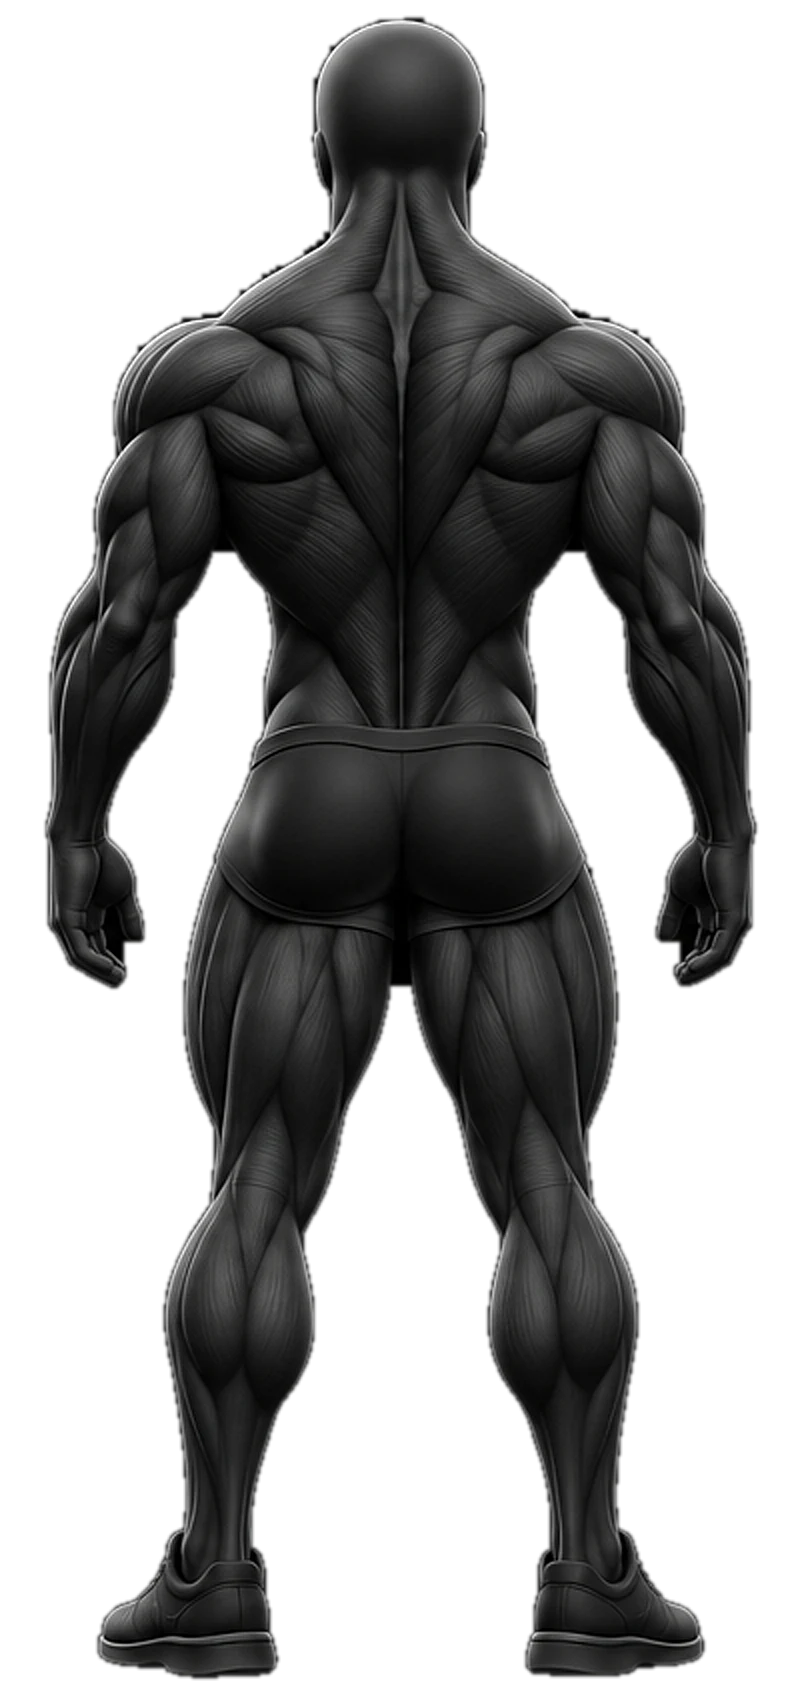
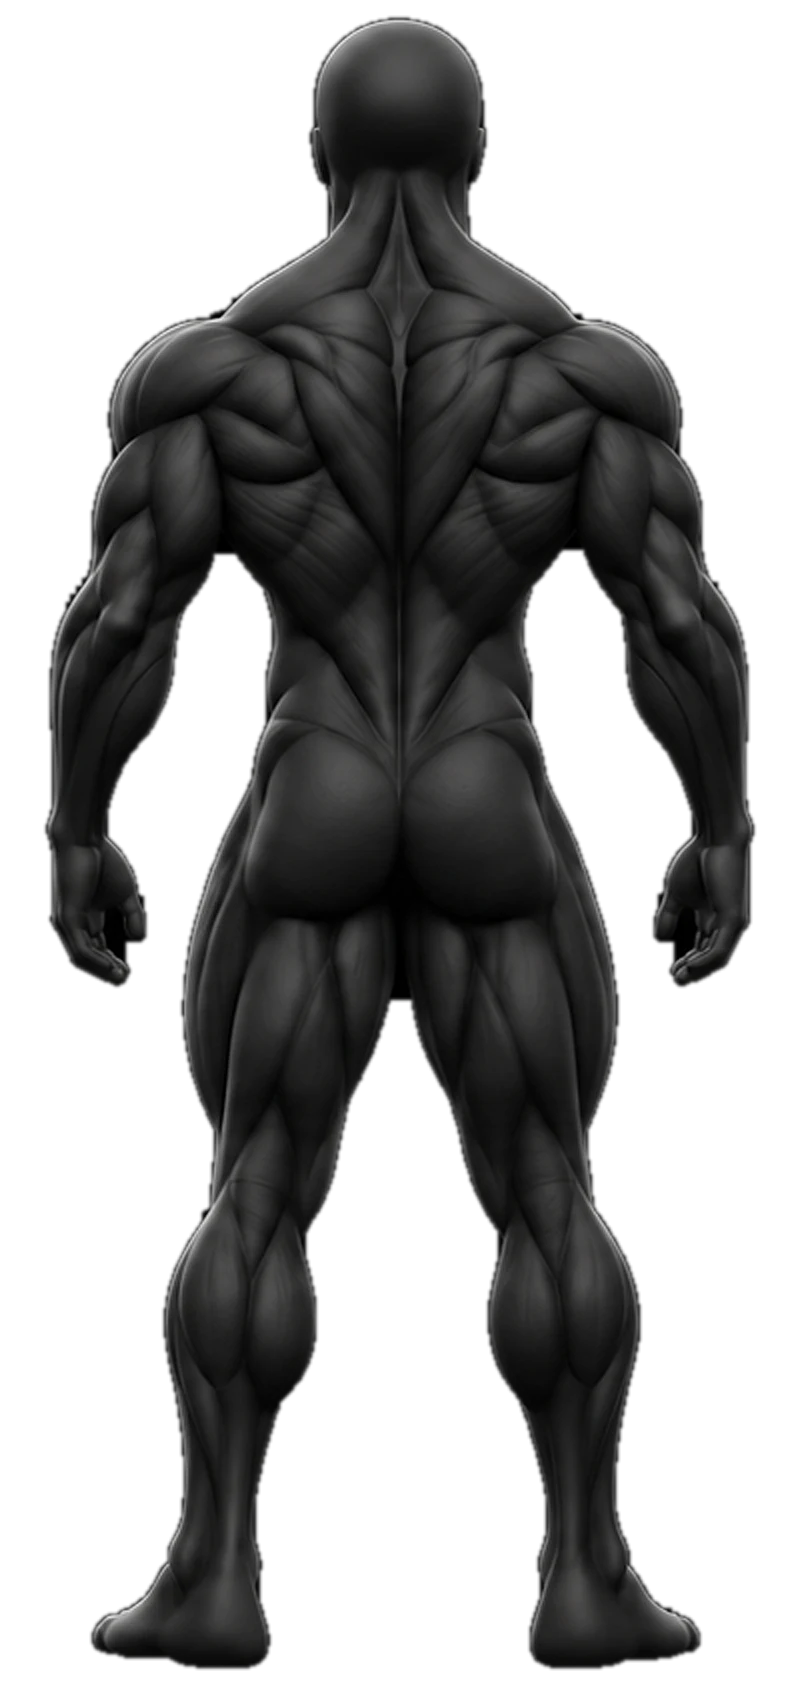
LIFT 2.23.1: Body Map artwork without shorts, Hip Flexors region
Claude-Session: https://claude.ai/code/session_013y13kYL9t9U9gpArUo5B3B

diff --git a/views-bodymap.js b/views-bodymap.js
@@ -7,7 +7,7 @@ import { musclesOf, MUSCLES, MUSCLES_BY_GROUP, MUSCLE_HINTS } from './muscles.js
 
 // Painted regions of each view, in the order they are numbered in img/map/<view>-map.png (1, 2, 3, ...).
 const REGIONS = {
-  front: ['Upper Traps', 'Side Delts', 'Front Delts', 'Upper Chest', 'Mid Chest', 'Lower Chest', 'Obliques', 'Upper Abs', 'Lower Abs', 'Biceps Long Head', 'Biceps Short Head', 'Brachialis', 'Triceps Lateral Head', 'Brachioradialis', 'Wrist Flexors', 'Vastus Lateralis', 'Rectus Femoris', 'Adductors', 'Vastus Medialis', 'Tibialis', 'Gastrocnemius'],
+  front: ['Upper Traps', 'Side Delts', 'Front Delts', 'Upper Chest', 'Mid Chest', 'Lower Chest', 'Obliques', 'Upper Abs', 'Lower Abs', 'Biceps Long Head', 'Biceps Short Head', 'Brachialis', 'Triceps Lateral Head', 'Brachioradialis', 'Wrist Flexors', 'Vastus Lateralis', 'Rectus Femoris', 'Adductors', 'Vastus Medialis', 'Tibialis', 'Gastrocnemius', 'Hip Flexors'],
   back: ['Upper Traps', 'Mid Back', 'Side Delts', 'Rear Delts', 'Rotator Cuff', 'Lats', 'Lower Back', 'Triceps Long Head', 'Triceps Lateral Head', 'Triceps Medial Head', 'Wrist Extensors', 'Glutes', 'Glute Medius', 'Outer Hamstrings', 'Inner Hamstrings', 'Gastrocnemius', 'Soleus'],
 };
 // A painted area that covers several muscles (the front of the forearm).

diff --git a/sw.js b/sw.js
@@ -1,5 +1,5 @@
 // Offline app shell. Cache-first for the app's own files; never touches the network for anything else.
-const CACHE = 'gymlog-v2.23.0';
+const CACHE = 'gymlog-v2.23.1';
 const FILES = [
   './', 'index.html', 'styles.css', 'manifest.webmanifest',
   'app.js', 'art.js', 'icons.js', 'muscles.js', 'icon-match.js', 'catalog.js', 'icons-v2.js', 'live.js', 'sound.js', 'calc.js', 'charts.js', 'backup.js', 'notes.js', 'crypto.js', 'db.js', 'nav.js', 'picker.js', 'store.js',

diff --git a/version.js b/version.js
@@ -1,1 +1,1 @@
-export const VERSION = '2.23.0';
+export const VERSION = '2.23.1';

diff --git a/README.md b/README.md
@@ -229,3 +229,6 @@ node tests/e2e.mjs          # drives the real app in headless Chrome at phone si
 - Body Map (Dashboard → Open Body Map): a front and back model that colours the muscles your programme trains. Pick a programme and week, or all of them. Primary muscles show in purple and secondary in teal, stronger colour for more sets.
 - Tap a muscle for its sets, reps and workouts as primary and as secondary, and which exercises they come from. A Table view lists every muscle with the same numbers.
 - Swipe, or tap Front/Back, to turn the model. White model in dark mode, black model with red eyes in light mode.
+
+## 2.23.1
+- Body Map: new model artwork with no shorts, so the hips and the backs of the legs are visible. Hip Flexors now have their own area at the top of each thigh on the front view.
